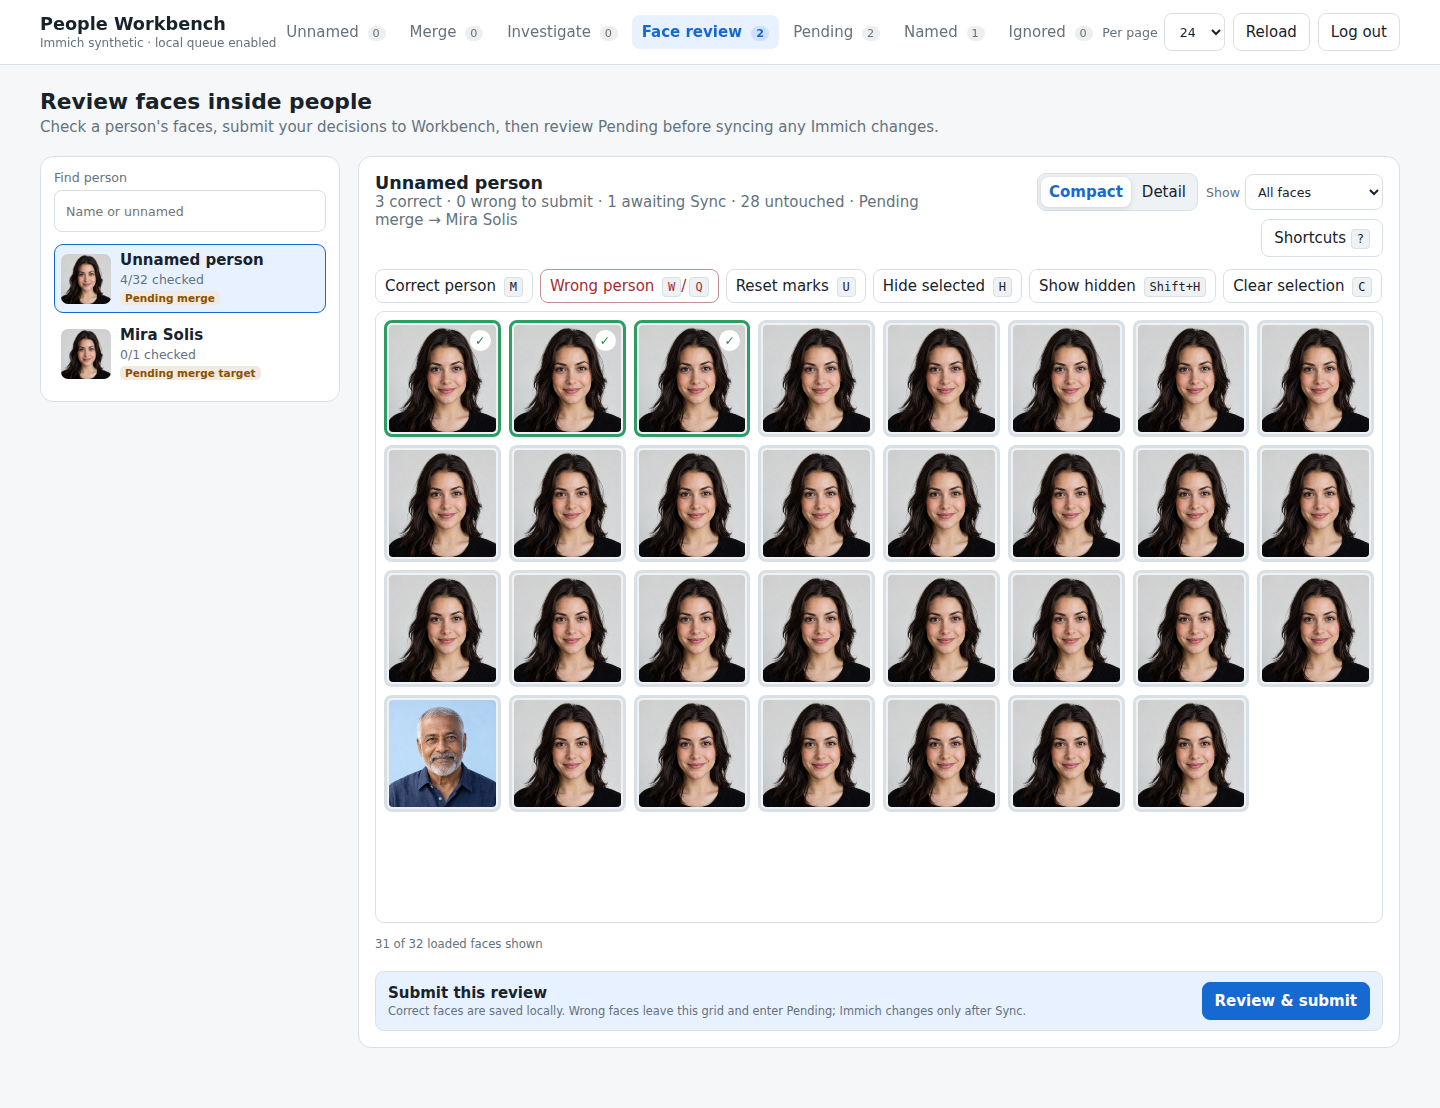
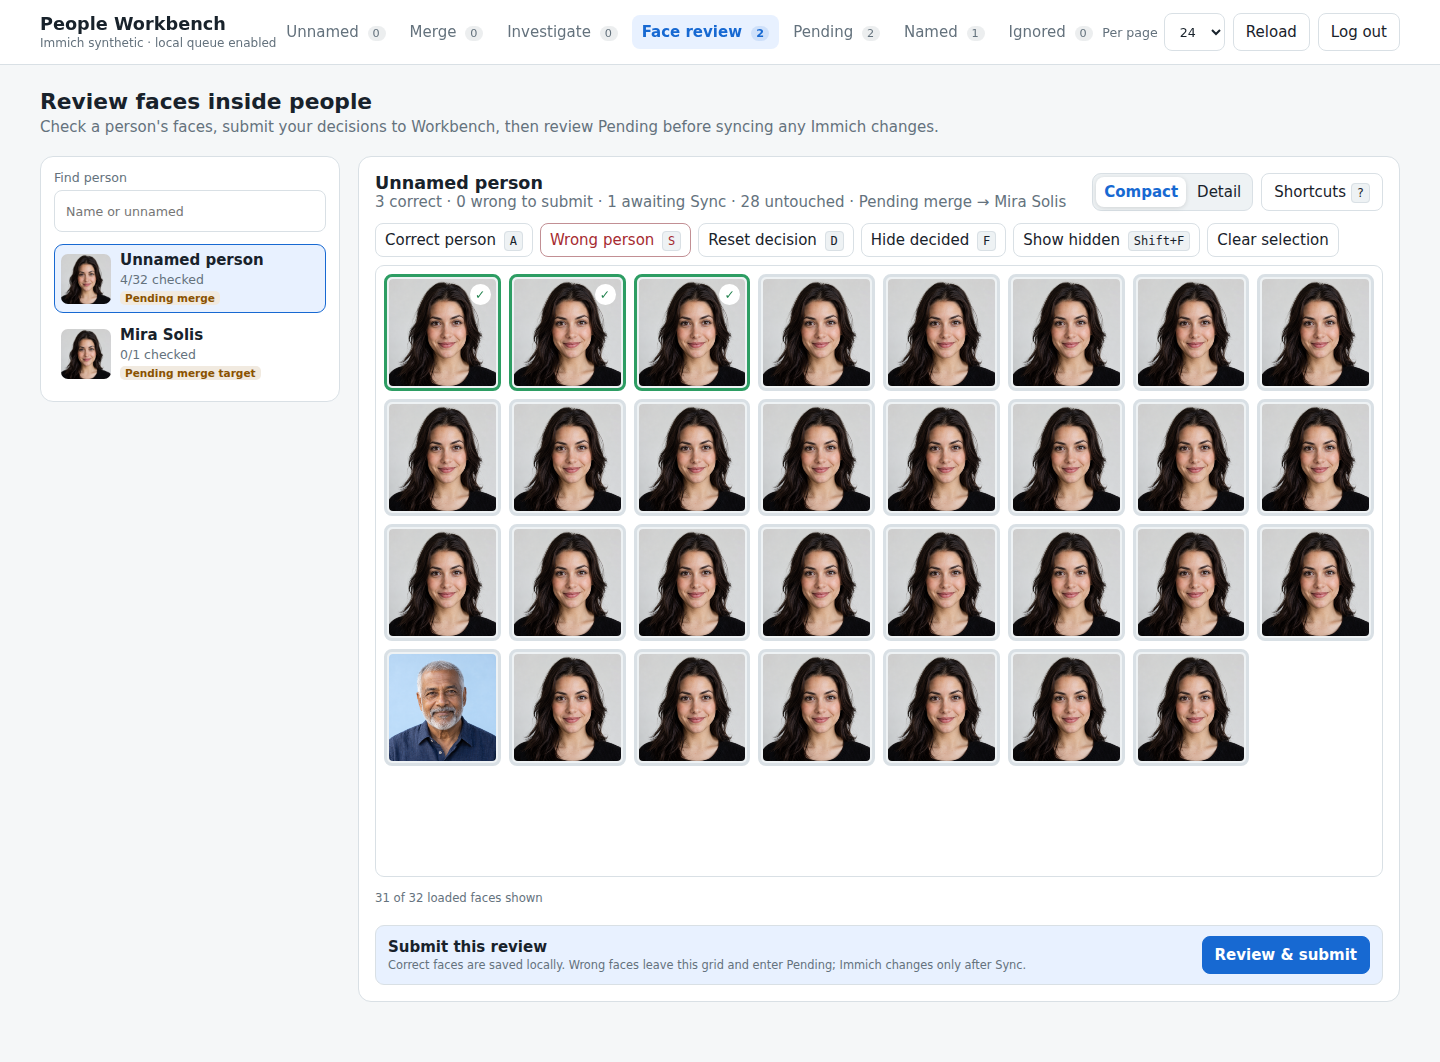
Make Face Review keyboard flow focus undecided faces

diff --git a/web/face-review.js b/web/face-review.js
@@ -15,17 +15,17 @@ export function createFaceReview({ api, assetThumb, drawFace, openAssetPreview, 
   let busy = false;
   let generation = 0;
   let anchorId = null;
+  let focusedFaceId = null;
   let previewBubble = null;
   let layout = { columns: 1, width: 104, height: 104, stride: 112 };
   const modeKey = "peopleWorkbench.faceReviewMode";
   let mode = "compact";
   try { if (localStorage.getItem(modeKey) === "detail") mode = "detail"; } catch { /* Private browsing may block storage. */ }
-  let filter = "all";
 
   const element = id => document.getElementById(id);
   const currentFaceReviewPerson = () => state.faceReviewCurrentPerson;
   const statusOf = face => face.draftVerdict === "wrong" ? "wrong" : face.draftVerdict === "unreviewed" ? "untouched" : face.draftVerdict === "correct" || face.reviewed ? "correct" : "untouched";
-  const visibleFaces = () => faces.filter(face => !face.queued && !hidden.has(face.faceId) && (filter === "all" || statusOf(face) === "untouched"));
+  const visibleFaces = () => faces.filter(face => !face.queued && !hidden.has(face.faceId));
 
   function showPhotoPeek(face, card) {
     if (!previewBubble) {
@@ -60,7 +60,7 @@ export function createFaceReview({ api, assetThumb, drawFace, openAssetPreview, 
         text.append(badge);
       }
       button.append(image, text);
-      button.addEventListener("click", () => selectFaceReviewPerson(person.id));
+      button.addEventListener("click", () => selectFaceReviewPerson(person.id, true));
       ui.facePersonList.append(button);
     }
     if (!state.faceReviewPeople.length) {
@@ -96,16 +96,16 @@ export function createFaceReview({ api, assetThumb, drawFace, openAssetPreview, 
 
   function updateControls() {
     const selected = state.faceReviewSelected.size;
-    const hiddenSelected = [...state.faceReviewSelected].filter(id => hidden.has(id)).length;
-    const visibleSelected = selected - hiddenSelected;
     const disabled = busy || loading;
-    element("face-review-mark").disabled = !selected || disabled;
-    element("face-review-reset").disabled = !selected || disabled;
-    element("face-review-hide").disabled = !visibleSelected || disabled;
+    const focused = visibleFaces().some(face => face.faceId === focusedFaceId);
+    const actionable = selected > 0 || focused;
+    element("face-review-mark").disabled = !actionable || disabled;
+    element("face-review-reset").disabled = !actionable || disabled;
+    element("face-review-hide").disabled = disabled || !visibleFaces().some(face => statusOf(face) !== "untouched");
     element("face-review-show").disabled = !hidden.size || disabled;
     element("face-review-show-label").textContent = hidden.size ? `Show hidden (${hidden.size})` : "Show hidden";
     element("face-review-clear").disabled = !selected || disabled;
-    element("face-review-queue").disabled = !selected || disabled;
+    element("face-review-queue").disabled = !actionable || disabled;
     element("face-review-submit").disabled = disabled || !(state.faceReviewResult?.draftCount > 0);
     element("face-review-submit").textContent = state.faceReviewResult?.draftCount ? `Review & submit (${state.faceReviewResult.draftCount})` : "Review & submit";
     element("face-review-compact").setAttribute("aria-pressed", String(mode === "compact"));
@@ -167,7 +167,7 @@ export function createFaceReview({ api, assetThumb, drawFace, openAssetPreview, 
     meta.append(filename, photo); card.append(crop, badge, meta);
     card.addEventListener("mouseenter", () => { if (mode === "compact") showPhotoPeek(face, card); });
     card.addEventListener("mouseleave", hidePhotoPeek);
-    card.addEventListener("focus", () => { if (mode === "compact") showPhotoPeek(face, card); });
+    card.addEventListener("focus", () => { focusedFaceId = face.faceId; updateControls(); if (mode === "compact") showPhotoPeek(face, card); });
     card.addEventListener("blur", hidePhotoPeek);
     card.addEventListener("click", event => {
       if (!event.target.closest("button")) toggleSelection(face, event.shiftKey);
@@ -175,8 +175,9 @@ export function createFaceReview({ api, assetThumb, drawFace, openAssetPreview, 
     card.addEventListener("keydown", event => {
       if (event.target !== card) return;
       if (event.key === " " || event.key === "Enter") { event.preventDefault(); toggleSelection(face, event.shiftKey); }
-      else if (event.key.toLowerCase() === "r") { event.preventDefault(); event.stopPropagation(); toggleCorrect(face); }
-      else if (event.key.toLowerCase() === "p") { event.preventDefault(); event.stopPropagation(); openAssetPreview(face.assetId, face.fileName); }
+      else if (["ArrowLeft", "ArrowRight", "ArrowUp", "ArrowDown"].includes(event.key)) {
+        event.preventDefault(); navigateFaces(face.faceId, event.key).catch(error => showToast(error.message));
+      } else if (event.key.toLowerCase() === "p") { event.preventDefault(); event.stopPropagation(); openAssetPreview(face.assetId, face.fileName); }
     });
     return card;
   }
@@ -207,10 +208,35 @@ export function createFaceReview({ api, assetThumb, drawFace, openAssetPreview, 
     }
     if (!available.length && !hasMore && !loadError && !loading) {
       const message = document.createElement("p"); message.className = "face-review-empty muted";
-      message.textContent = hidden.size ? "All loaded faces are hidden. Use Show hidden to see them." : filter === "untouched" ? "No untouched faces remain in this view." : "No faces remain to review here. Wrong faces submitted to Pending are hidden from this grid.";
+      message.textContent = hidden.size ? "Decided faces are hidden. Use Show hidden to see them." : "No faces remain to review here. Wrong faces submitted to Pending are hidden from this grid.";
       surface.append(message);
     } else surface.querySelectorAll(".face-review-empty").forEach(node => node.remove());
     updateMountedStates();
+  }
+
+  function focusVisibleFace(index) {
+    const available = visibleFaces();
+    const nextIndex = Math.max(0, Math.min(index, available.length - 1));
+    const face = available[nextIndex];
+    if (!face) { ui.faceReviewGrid.focus(); return; }
+    calculateLayout();
+    const top = Math.floor(nextIndex / layout.columns) * layout.stride;
+    if (top < ui.faceReviewGrid.scrollTop) ui.faceReviewGrid.scrollTop = top;
+    else if (top + layout.height > ui.faceReviewGrid.scrollTop + ui.faceReviewGrid.clientHeight)
+      ui.faceReviewGrid.scrollTop = top + layout.height - ui.faceReviewGrid.clientHeight;
+    renderVisible();
+    mounted.get(face.faceId)?.focus({ preventScroll: true });
+  }
+
+  async function navigateFaces(faceId, key) {
+    const available = visibleFaces();
+    const index = available.findIndex(face => face.faceId === faceId);
+    if (index < 0) return;
+    calculateLayout();
+    const delta = key === "ArrowLeft" ? -1 : key === "ArrowRight" ? 1 : key === "ArrowUp" ? -layout.columns : layout.columns;
+    const target = index + delta;
+    if (target >= available.length && hasMore) await loadNextPage();
+    focusVisibleFace(target);
   }
 
   function maybeLoadMore() {
@@ -301,14 +327,10 @@ export function createFaceReview({ api, assetThumb, drawFace, openAssetPreview, 
     }
   }
 
-  function toggleCorrect(face) {
-    if (face.queued || busy) return;
-    const verdict = statusOf(face) === "correct" ? (face.reviewed ? "unreviewed" : "clear") : "correct";
-    stageFaces([{ face, verdict }]);
-  }
-
   function stageSelected(verdict) {
-    const selected = [...state.faceReviewSelectedData.values()].filter(face => !face.queued);
+    const selected = state.faceReviewSelectedData.size
+      ? [...state.faceReviewSelectedData.values()].filter(face => !face.queued)
+      : visibleFaces().filter(face => face.faceId === focusedFaceId);
     if (!selected.length || busy) return;
     if (selected.some(face => hidden.has(face.faceId))) {
       showToast("Show hidden selected faces before marking them.");
@@ -346,31 +368,33 @@ export function createFaceReview({ api, assetThumb, drawFace, openAssetPreview, 
     }
   }
 
-  function hideSelected() {
-    for (const id of state.faceReviewSelected) hidden.add(id);
-    renderVisible(); maybeLoadMore();
+  function hideDecided() {
+    const available = visibleFaces();
+    const focusIndex = available.findIndex(face => face.faceId === focusedFaceId);
+    for (const face of available) if (statusOf(face) !== "untouched") hidden.add(face.faceId);
+    clearSelection(); hidePhotoPeek(); renderVisible(); maybeLoadMore();
+    if (focusIndex >= 0 && hidden.has(focusedFaceId)) focusVisibleFace(focusIndex);
   }
-  function showHidden() { hidden.clear(); renderVisible(); }
+  function showHidden() { hidden.clear(); renderVisible(); maybeLoadMore(); }
   function clearSelection() { state.faceReviewSelected.clear(); state.faceReviewSelectedData.clear(); anchorId = null; updateMountedStates(); }
   function setMode(next) {
     mode = next;
     try { localStorage.setItem(modeKey, mode); } catch { /* Keep the current session mode. */ }
     hidePhotoPeek(); renderVisible(); maybeLoadMore();
   }
-  function setFilter(next) { filter = next; ui.faceReviewGrid.scrollTop = 0; renderVisible(); maybeLoadMore(); }
   function toggleShortcuts() {
     const panel = element("face-review-shortcuts"); panel.hidden = !panel.hidden;
     element("face-review-help").setAttribute("aria-expanded", String(!panel.hidden));
   }
 
-  async function selectFaceReviewPerson(personId) {
+  async function selectFaceReviewPerson(personId, focusGrid = false) {
     const person = state.faceReviewPeople.find(item => item.id === personId) || (state.faceReviewPersonId === personId ? state.faceReviewCurrentPerson : null);
     if (!person) return;
     generation += 1;
     state.faceReviewPersonId = personId; state.faceReviewCurrentPerson = person;
     state.faceReviewResult = null;
     state.faceReviewSelected.clear(); state.faceReviewSelectedData.clear();
-    faces = []; hidden = new Set(); mounted = new Map(); nextPage = 1; hasMore = true; loadError = false; loading = false; busy = false; anchorId = null;
+    faces = []; hidden = new Set(); mounted = new Map(); nextPage = 1; hasMore = true; loadError = false; loading = false; busy = false; anchorId = null; focusedFaceId = null;
     hidePhotoPeek();
     renderFacePersonList();
     element("face-review-placeholder").hidden = true; element("face-review-content").hidden = false;
@@ -379,6 +403,7 @@ export function createFaceReview({ api, assetThumb, drawFace, openAssetPreview, 
     ui.faceReviewGrid.replaceChildren(); ui.faceReviewGrid.scrollTop = 0;
     surface = document.createElement("div"); surface.className = "face-review-virtual"; ui.faceReviewGrid.append(surface);
     renderVisible(); await loadNextPage();
+    if (focusGrid && state.faceReviewPersonId === personId) focusVisibleFace(0);
   }
 
   async function renderFaceReview() {
@@ -401,12 +426,11 @@ export function createFaceReview({ api, assetThumb, drawFace, openAssetPreview, 
     element("face-review-queue").addEventListener("click", () => stageSelected("wrong"));
     element("face-review-mark").addEventListener("click", () => stageSelected("correct"));
     element("face-review-reset").addEventListener("click", () => stageSelected("reset"));
-    element("face-review-hide").addEventListener("click", hideSelected);
+    element("face-review-hide").addEventListener("click", hideDecided);
     element("face-review-show").addEventListener("click", showHidden);
     element("face-review-clear").addEventListener("click", clearSelection);
     element("face-review-compact").addEventListener("click", () => setMode("compact"));
     element("face-review-detail").addEventListener("click", () => setMode("detail"));
-    element("face-review-filter").addEventListener("change", event => setFilter(event.target.value));
     element("face-review-submit").addEventListener("click", () => {
       const result = state.faceReviewResult;
       element("face-review-submit-summary").textContent = `${result?.draftCount || 0} decisions: ${result?.wrongDraftCount || 0} wrong faces will leave this review grid and enter Pending; correct faces will be saved locally. Immich changes only after you review Pending and explicitly Sync.`;
@@ -429,18 +453,21 @@ export function createFaceReview({ api, assetThumb, drawFace, openAssetPreview, 
       }
     });
     ui.faceReviewGrid.addEventListener("scroll", () => { hidePhotoPeek(); renderVisible(); maybeLoadMore(); });
+    ui.faceReviewGrid.addEventListener("keydown", event => {
+      if (event.target !== ui.faceReviewGrid || !["ArrowLeft", "ArrowRight", "ArrowUp", "ArrowDown"].includes(event.key)) return;
+      event.preventDefault(); focusVisibleFace(0);
+    });
     window.addEventListener("resize", () => {
       clearTimeout(state.faceReviewResizeTimer);
       state.faceReviewResizeTimer = setTimeout(() => { if (state.view === "faces" && surface) { renderVisible(); maybeLoadMore(); } }, 180);
     });
     window.addEventListener("keydown", event => {
-      if (state.view !== "faces" || !currentFaceReviewPerson() || event.altKey || event.ctrlKey || event.metaKey || event.target.closest("input, textarea, select, dialog, [contenteditable]")) return;
+      if (state.view !== "faces" || !currentFaceReviewPerson() || event.altKey || event.ctrlKey || event.metaKey || event.target.closest("input, textarea, select, dialog, button, [contenteditable]")) return;
       const key = event.key.toLowerCase();
-      if (key === "m") { event.preventDefault(); stageSelected("correct"); }
-      else if (key === "h") { event.preventDefault(); event.shiftKey ? showHidden() : hideSelected(); }
-      else if (key === "c") { event.preventDefault(); clearSelection(); }
-      else if (key === "w" || key === "q") { event.preventDefault(); stageSelected("wrong"); }
-      else if (key === "u") { event.preventDefault(); stageSelected("reset"); }
+      if (key === "a" && !event.shiftKey) { event.preventDefault(); stageSelected("correct"); }
+      else if (key === "s" && !event.shiftKey) { event.preventDefault(); stageSelected("wrong"); }
+      else if (key === "d" && !event.shiftKey) { event.preventDefault(); stageSelected("reset"); }
+      else if (key === "f") { event.preventDefault(); event.shiftKey ? showHidden() : hideDecided(); }
       else if (key === "?") { event.preventDefault(); toggleShortcuts(); }
     });
   }

diff --git a/web/index.html b/web/index.html
@@ -158,19 +158,18 @@
               <div><h3 id="face-review-name"></h3><p id="face-review-meta" class="muted"></p></div>
               <div class="face-review-toolbar-options">
                 <div class="face-review-mode" role="group" aria-label="Face tile size"><button id="face-review-compact" class="quiet-button" type="button" aria-pressed="true">Compact</button><button id="face-review-detail" class="quiet-button" type="button" aria-pressed="false">Detail</button></div>
-                <label>Show <select id="face-review-filter"><option value="all">All faces</option><option value="untouched">Untouched only</option></select></label>
                 <button id="face-review-help" class="quiet-button" type="button" aria-expanded="false" aria-controls="face-review-shortcuts">Shortcuts <kbd>?</kbd></button>
               </div>
             </div>
             <div class="face-review-actions">
-              <button id="face-review-mark" class="quiet-button" type="button" disabled>Correct person <kbd>M</kbd></button>
-              <button id="face-review-queue" class="danger-button" type="button" disabled>Wrong person <kbd>W</kbd>/<kbd>Q</kbd></button>
-              <button id="face-review-reset" class="quiet-button" type="button" disabled>Reset marks <kbd>U</kbd></button>
-              <button id="face-review-hide" class="quiet-button" type="button" disabled>Hide selected <kbd>H</kbd></button>
-              <button id="face-review-show" class="quiet-button" type="button" disabled><span id="face-review-show-label">Show hidden</span> <kbd>Shift+H</kbd></button>
-              <button id="face-review-clear" class="quiet-button" type="button" disabled>Clear selection <kbd>C</kbd></button>
+              <button id="face-review-mark" class="quiet-button" type="button" disabled>Correct person <kbd>A</kbd></button>
+              <button id="face-review-queue" class="danger-button" type="button" disabled>Wrong person <kbd>S</kbd></button>
+              <button id="face-review-reset" class="quiet-button" type="button" disabled>Reset decision <kbd>D</kbd></button>
+              <button id="face-review-hide" class="quiet-button" type="button" disabled>Hide decided <kbd>F</kbd></button>
+              <button id="face-review-show" class="quiet-button" type="button" disabled><span id="face-review-show-label">Show hidden</span> <kbd>Shift+F</kbd></button>
+              <button id="face-review-clear" class="quiet-button" type="button" disabled>Clear selection</button>
             </div>
-            <div id="face-review-shortcuts" class="face-review-shortcuts" hidden>Click, <kbd>Enter</kbd>, or <kbd>Space</kbd> selects a face · <kbd>Shift</kbd>+click selects a range · <kbd>R</kbd> toggles Correct person on the focused face · <kbd>M</kbd> marks selected faces Correct person · <kbd>W</kbd> or <kbd>Q</kbd> marks selected faces Wrong person · <kbd>U</kbd> resets selected marks · <kbd>P</kbd> opens the photo · <kbd>H</kbd> hides selected · <kbd>Shift+H</kbd> shows hidden · <kbd>C</kbd> clears selection · <kbd>?</kbd> toggles this help</div>
+            <div id="face-review-shortcuts" class="face-review-shortcuts" hidden><kbd>←</kbd><kbd>↑</kbd><kbd>↓</kbd><kbd>→</kbd> move between faces · <kbd>A</kbd> Correct person · <kbd>S</kbd> Wrong person · <kbd>D</kbd> reset decision · <kbd>F</kbd> hide faces decided so far · <kbd>Shift+F</kbd> show hidden faces · <kbd>Enter</kbd> or <kbd>Space</kbd> selects a face · <kbd>Shift</kbd>+click selects a range · <kbd>P</kbd> opens the photo · <kbd>?</kbd> toggles this help</div>
             <div id="face-review-grid" class="face-review-grid" role="listbox" aria-multiselectable="true" aria-label="Assigned face crops" tabindex="0"></div>
             <div class="face-review-load-row"><span id="face-review-load-status" class="muted" aria-live="polite"></span><button id="face-review-load-more" class="quiet-button" type="button" hidden>Retry loading</button></div>
             <div class="face-review-submit-bar"><div><strong>Submit this review</strong><small>Correct faces are saved locally. Wrong faces leave this grid and enter Pending; Immich changes only after Sync.</small></div><button id="face-review-submit" class="primary-button" type="button" disabled>Review &amp; submit</button></div>

diff --git a/web/styles.css b/web/styles.css
@@ -245,8 +245,6 @@ body.merge-zen .merge-tray { position: static; height: 100vh; overflow-y: auto; 
 .face-review-toolbar { display: flex; justify-content: space-between; align-items: start; gap: 18px; margin-bottom: 12px; }
 .face-review-toolbar h3, .face-review-toolbar p { margin: 0; }
 .face-review-toolbar-options { display: flex; flex-wrap: wrap; align-items: center; justify-content: flex-end; gap: 8px; }
-.face-review-toolbar-options label { display: flex; align-items: center; gap: 5px; white-space: nowrap; }
-.face-review-toolbar-options select { min-height: 36px; padding: 5px 8px; }
 .face-review-mode { display: flex; gap: 3px; padding: 3px; border: 1px solid var(--border); border-radius: 9px; background: var(--surface-2); }
 .face-review-mode button { min-height: 30px; padding: 4px 8px; border: 0; background: transparent; }
 .face-review-mode button[aria-pressed="true"] { color: var(--accent); background: var(--surface); box-shadow: 0 1px 5px color-mix(in srgb, #000 13%, transparent); font-weight: 700; }

diff --git a/docs/user-guide.md b/docs/user-guide.md
@@ -165,14 +165,14 @@ face. **Compact** shows small crops without tile text; **Detail** enlarges them
 and shows filenames and a **Photo** button. The chosen size is saved in this
 browser. Hovering or focusing a compact tile, or the detail view's **Photo**
 button, shows a small surrounding-image preview. Click **Photo**, or press `P`
-on a focused tile, to open the larger Immich preview. The **Show** filter can
-limit the grid to untouched faces.
+on a focused tile, to open the larger Immich preview.
 
-Click a tile, or use `Enter` or `Space` on its focused tile, to select it.
-`Shift`+click selects a range. Selection has a blue outline. **Correct person**
-(`M`) marks selected faces green; **Wrong person** (`W` or the older `Q` shortcut)
-marks them red. `R` toggles a focused face's Correct person mark. **Reset marks**
-(`U`) returns selected faces to untouched. These decisions are drafts saved in
+Use the arrow keys to move focus between face tiles. **Correct person** (`A`)
+marks the focused face green; **Wrong person** (`S`) marks it red, and **Reset
+decision** (`D`) returns it to untouched. You can also click tiles, use `Enter`
+or `Space` to select a focused tile, and `Shift`+click to select a range. The
+same actions apply to the selected faces when a selection exists; selection has
+a blue outline. These decisions are drafts saved in
 local SQLite so you can leave the page or reload without losing them. They do
 not change Immich or enter Pending until **Review & submit** opens the batch
 summary and you choose **Submit review**.
@@ -185,10 +185,13 @@ request brings the face back into Face review. The counts distinguish correct
 faces, wrong faces waiting for submission, changes awaiting Sync, and untouched
 faces. New Immich photos reopen a person for review.
 
-**Hide selected** (`H`) temporarily hides selected faces without discarding the
-selection; **Show hidden** (`Shift+H`) restores them. **Clear selection** (`C`)
-removes the blue outline. Hidden faces and selection are session-only; draft
-decisions are durable. The **Shortcuts** button, or `?`, shows the key reference.
+**Hide decided** (`F`) hides all currently visible green and red faces. It does
+not hide a face when you mark it: press `F` again when you are ready to hide
+new decisions. **Show hidden** (`Shift+F`) brings hidden faces back. These are
+view-only actions; they neither submit drafts nor change Immich. **Clear
+selection** removes the blue outline. Hidden faces and selection are
+session-only; draft decisions are durable. The **Shortcuts** button, or `?`,
+shows the key reference.
 
 At explicit Pending Sync, wrong faces are reassigned before a pending name or
 merge for their source person is applied. If a wrong-face correction fails, is

diff --git a/docs/tour/face-review.md b/docs/tour/face-review.md
@@ -6,11 +6,16 @@
 unsynced names or merges remain available here, so you can correct an obvious
 mistake before sending the person change to Immich.
 
-Compact mode shows many face crops at once. Click one, or Shift-click a range,
-then mark **Correct person** (`M`) or **Wrong person** (`W`). Detail mode gives
+Compact mode shows many face crops at once. Use the arrow keys to move focus,
+then mark **Correct person** (`A`) or **Wrong person** (`S`). Click or Shift-click
+to select a group for the same actions. Detail mode gives
 each crop more room and a **Photo** action (`P`) for context. The green and red
 borders are local review drafts, saved across reloads; they do not enter Pending
 or change Immich yet.
+
+Press **Hide decided** (`F`) to hide the green and red faces marked so far.
+Marking another face leaves it visible until you press `F` again, giving you a
+chance to correct a mistake. **Show hidden** (`Shift+F`) brings them back.
 
 ![Synthetic faces in compact Face review, with correct and wrong markings](../images/visual-tour/face-review.png)
 
